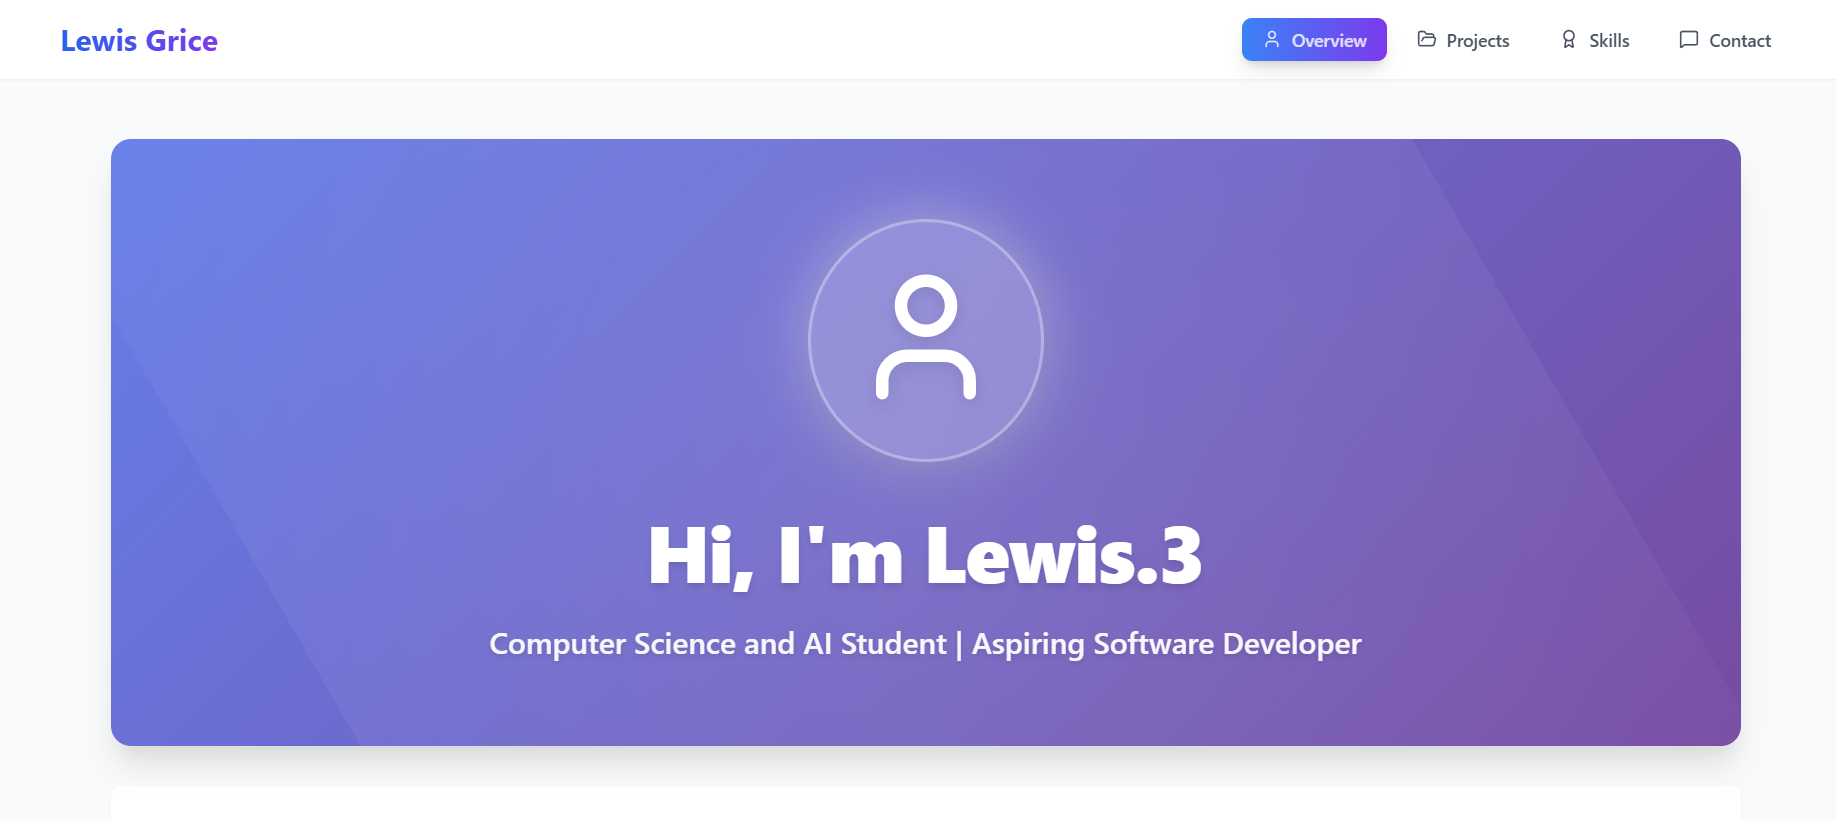
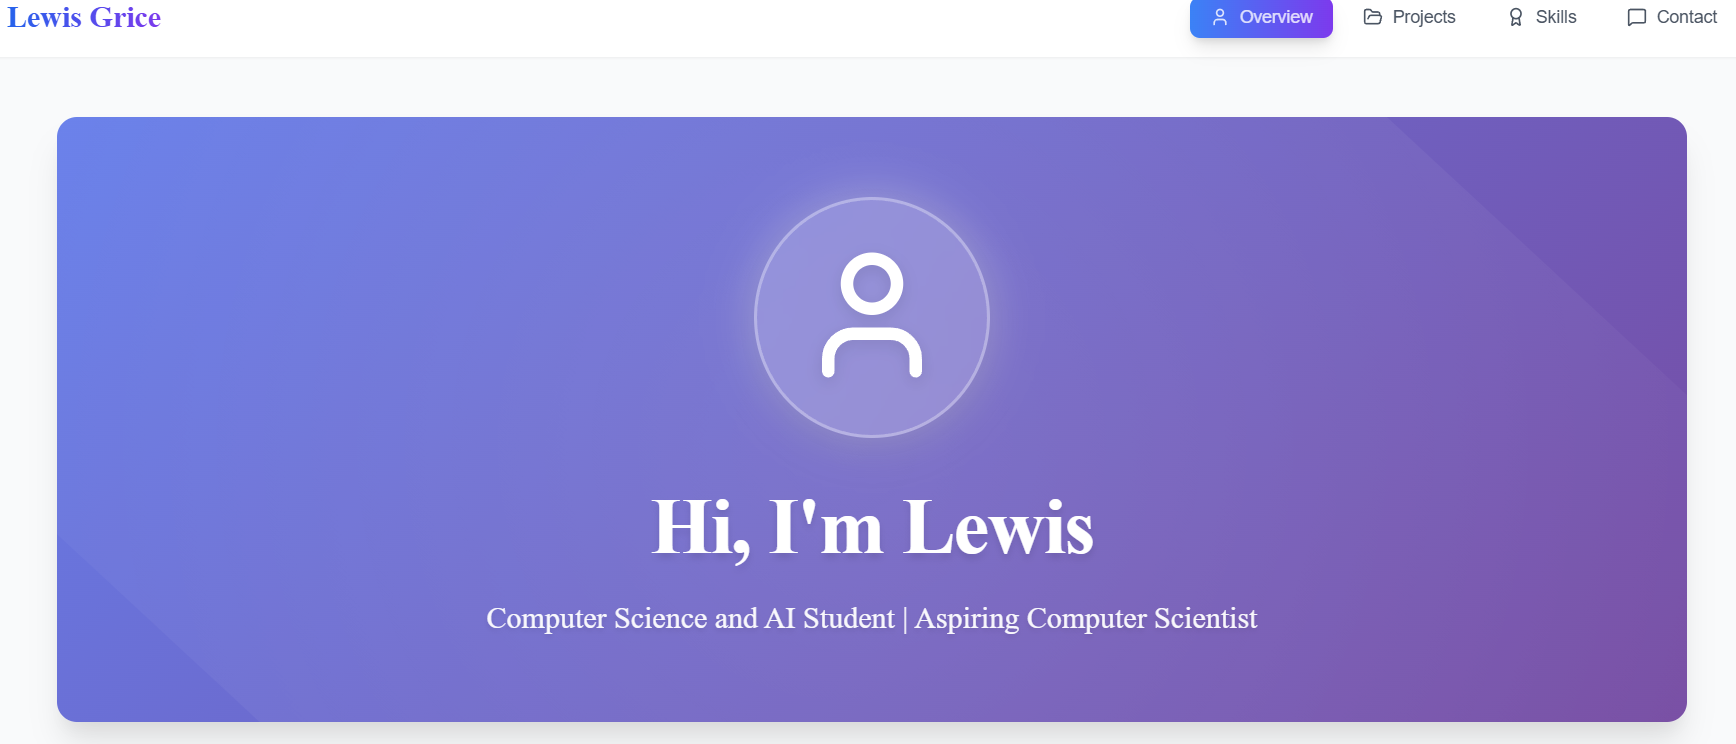
Added F1 project to portfolio

diff --git a/src/App.jsx b/src/App.jsx
@@ -14,6 +14,7 @@ import nodejsLogo from "./assets/Nodejs logo.png";
 import haskellLogo from "./assets/Haskell logo.png";
 import linkedinLogo from "./assets/linkedin logo.png";
 import githubLogo from "./assets/github logo.png";
+import f1strategyImg from "./assets/f1 strategy.png";
 
 const Portfolio = () => {
   const [activeSection, setActiveSection] = useState('overview');
@@ -154,12 +155,12 @@ const Portfolio = () => {
                   <User size={120} className="profile-icon" />
                 </div>
                 <h1 className="hero-title">Hi, I'm Lewis</h1>
-                <p className="hero-subtitle">Computer Science and AI Student | Aspiring Software Developer</p>
+                <p className="hero-subtitle">Computer Science and AI Student | Aspiring Computer Scientist</p>
               </div>
             </div>
             <div className="content-card">
               <h2 className="text-2xl font-bold text-gray-900 mb-4">About Me</h2>
-              <p className="text-gray-600 text-lg mb-4">I’m a 3rd year Computer Science and AI student at the University of Bath, passionate about machine learning, problem solving, and building impactful software. Some of my highlights include a spam filter model with 94% accuracy and group projects such as a budgeting web app. Outside of academics, I enjoy fitness, travelling, and meeting new people. I’m seeking a summer internship to further develop my skills.</p>
+              <p className="text-gray-600 text-lg mb-4">I’m a 3rd year Computer Science and AI student at the University of Bath. I am passionate about machine learning, problem solving, and building impactful software. Some of my highlights include a spam filter model with 94% accuracy and group projects such as a budgeting web app. Outside of academics, I enjoy fitness, travelling, and meeting new people. I’m seeking an industrial placement year to further develop my skills.</p>
             </div>
             <button onClick={() => scrollToSection('projects')} className="next-section-btn">
               <span>View Projects</span>
@@ -183,7 +184,7 @@ const Portfolio = () => {
                 </div>
                 
                 <div className="project-content">
-                  <h2 className="project-title">Lewis Grice Portfolio</h2>
+                  <h2 className="project-title">Personal Portfolio Website</h2>
                   
                   <div className="project-section">
                     <h3 className="project-subheading">Description</h3>
@@ -209,18 +210,61 @@ const Portfolio = () => {
                   <a 
                     href="https://github.com/LG9757/lewis-grice-portfolio" 
                     target="_blank" 
-                    rel="noopener noreferrer"
+                    rel="noopener noreferrer" 
                     className="github-link"
                   >
-                    <svg 
-                      className="github-icon" 
-                      viewBox="0 0 24 24" 
-                      fill="currentColor"
-                    >
-                      <path d="M12 0c-6.626 0-12 5.373-12 12 0 5.302 3.438 9.8 8.207 11.387.599.111.793-.261.793-.577v-2.234c-3.338.726-4.033-1.416-4.033-1.416-.546-1.387-1.333-1.756-1.333-1.756-1.089-.745.083-.729.083-.729 1.205.084 1.839 1.237 1.839 1.237 1.07 1.834 2.807 1.304 3.492.997.107-.775.418-1.305.762-1.604-2.665-.305-5.467-1.334-5.467-5.931 0-1.311.469-2.381 1.236-3.221-.124-.303-.535-1.524.117-3.176 0 0 1.008-.322 3.301 1.23.957-.266 1.983-.399 3.003-.404 1.02.005 2.047.138 3.006.404 2.291-1.552 3.297-1.23 3.297-1.23.653 1.653.242 2.874.118 3.176.77.84 1.235 1.911 1.235 3.221 0 4.609-2.807 5.624-5.479 5.921.43.372.823 1.102.823 2.222v3.293c0 .319.192.694.801.576 4.765-1.589 8.199-6.086 8.199-11.386 0-6.627-5.373-12-12-12z"/>
-                    </svg>
+                    <img src={githubLogo} alt="GitHub" className="github-icon" />
                     View on GitHub
                   </a>
+
+                </div>
+              </div>
+            </div>
+
+            <div className="content-card">
+              <div className="project-block reverse">
+                <div className="project-image-container">
+                  <img
+                    src={f1strategyImg}
+                    alt="F1 Strategy"
+                    className="project-image"
+                  />
+                </div>
+                
+                <div className="project-content">
+                  <h2 className="project-title">F1 Strategy model</h2>
+                  
+                  <div className="project-section">
+                    <h3 className="project-subheading">Description</h3>
+                    <p className="project-text">
+                      This project is a machine learning model that predicts the optimal strategy for Formula 1 races. I did it to enhance my skills in data analysis and machine learning, and use xgboost for the first time as well as experiment with techniques for hyperparameter tuning.
+                    </p>
+                  </div>
+                  
+                  <div className="project-section">
+                    <h3 className="project-subheading">Skills Used</h3>
+                    <p className="project-text">
+                      Python, Pandas, XGBoost, Matplotlib, SKLearn
+                    </p>
+                  </div>
+                  
+                  <div className="project-section">
+                    <h3 className="project-subheading">Future Work</h3>
+                    <p className="project-text">
+                      I plan to further improve this model by experimenting with different algorithms, to improve accuracy and eventually add handling for wet weather tyres.
+                    </p>
+                  </div>
+                  
+                  <a 
+                    href="https://github.com/LG9757/f1-strategy-model" 
+                    target="_blank" 
+                    rel="noopener noreferrer" 
+                    className="github-link"
+                  >
+                    <img src={githubLogo} alt="GitHub" className="github-icon" />
+                    View on GitHub
+                  </a>
+
                 </div>
               </div>
             </div>
@@ -1050,6 +1094,31 @@ const Portfolio = () => {
         line-height: 1.6;
       }
 
+      .project-block.reverse {
+        flex-direction: row-reverse;
+      }
+
+      .project-block.reverse .project-image-container::after {
+        right: auto;
+        left: 0;
+        transform: translateX(-50%) scaleX(-1);
+      }
+
+      .project-block.reverse .project-content {
+        padding: 3rem 4rem 2rem 3rem;
+      }
+
+      @media (max-width: 968px) {
+        .project-block.reverse {
+          flex-direction: column;
+        }
+        
+        .project-block.reverse .project-content {
+          padding: 3rem 2rem 2rem 2rem;
+        }
+      }
+
+
       .github-link {
         display: inline-flex;
         align-items: center;
@@ -1074,6 +1143,7 @@ const Portfolio = () => {
       .github-icon {
         width: 24px;
         height: 24px;
+        filter: brightness(0) invert(1);
       }
 
       /* Responsive Design */

diff --git a/index.html b/index.html
@@ -2,7 +2,7 @@
 <html lang="en">
   <head>
     <meta charset="UTF-8" />
-    <link rel="icon" type="image/svg+xml" href="/logo.webp" />
+    <link rel="icon" type="image/svg+xml" href="/logo.png" />
     <meta name="viewport" content="width=device-width, initial-scale=1.0" />
     <title>Lewis Grice Portfolio</title>
   </head>

diff --git a/src/main.jsx b/src/main.jsx
@@ -1,7 +1,6 @@
 import React from 'react'
    import ReactDOM from 'react-dom/client'
    import App from './App.jsx'
-   import './index.css'
 
    ReactDOM.createRoot(document.getElementById('root')).render(
      <App />
